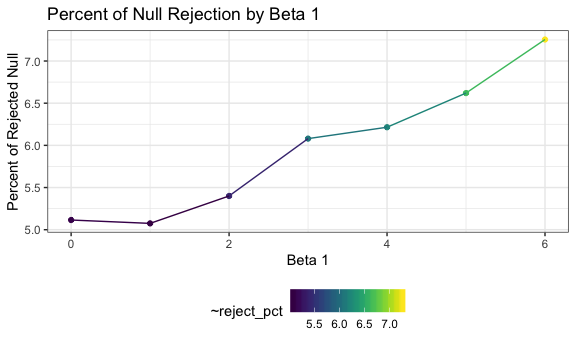
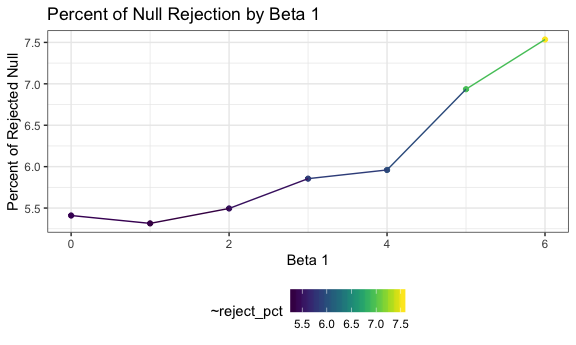
updating plot for rejecting null and average betas for problem 3

diff --git a/p8105_hw5_hmb2161.md b/p8105_hw5_hmb2161.md
@@ -286,20 +286,22 @@ prob_data = tibble(
     ## Please use `cols = c(data)`
 
 ``` r
-#tidy the resulting dataset
+#tidy the resulting dataset: pivoting longer to make each column a variable, extracting out group, recoding group variable, and selecting in the order I want 
 
 prob_data =
 pivot_longer(prob_data, 
-             week_1:week_8,                            # pivoting longer to make each column a variable
+             week_1:week_8,         
              names_to = "week",
-              values_to = "observations") %>%
-  mutate(subject = str_extract(subject, "(con|exp)_\\d{2}"), # extracting out group 
+             values_to = "observations") %>%
+  mutate(subject = str_extract(subject, "(con|exp)_\\d{2}"), 
          group = str_extract(subject, "con|exp"),
-         group = fct_recode(group, "control" = "con",               # recoding group variable
+         group = fct_recode(group, "control" = "con",    
                             "experiment" = "exp")) %>%
-  select(subject, group, week, observations)                        # selecting in the order I want  
+  select(subject, group, week, observations)       
 
-knitr::kable(prob_data)  # making a nice table
+# making a nice table
+
+knitr::kable(prob_data)  
 ```
 
 | subject | group      | week    | observations |
@@ -468,7 +470,7 @@ knitr::kable(prob_data)  # making a nice table
 # Problem 2: plot
 
 ``` r
-# creating a spaghetti plot for the dataframe created above
+# creating a spaghetti plot for the dataframe created above with week on the x axis, observations on the y axis, grouped by subject, with the color as the treatment arm
 
 plot_ppt_data = 
   ggplot(prob_data, aes(x = week, y = observations, color = group, group = subject)) +
@@ -497,12 +499,12 @@ about the same for the control group.
 # Problem 3
 
 ``` r
-set.seed(1)
+# creating an equation simulation for n = 30, beta0 = 2, and beta1 = 0
 
 sim_regression = function(n = 30, beta0 = 2, beta1 = 0) {
   sim_data = tibble(
     x = rnorm(n = 30, mean = 1, sd = 1),
-    y = beta0 + beta1 * x + rnorm(n, 0, 50)
+    y = beta0 + beta1 * x + rnorm(n, 0, 50)    
   )
   
   ls_fit = lm(y ~ x, data = sim_data) %>%
@@ -511,6 +513,8 @@ sim_regression = function(n = 30, beta0 = 2, beta1 = 0) {
 
 }
 
+# creating a dataframe with the regression simulation run 10,000 times for beta1 = {0, 1, 2, 3, 4, 5, 6} including p-values and estimated beta1 value
+
 models = 
   tibble(beta1 = 0:6) %>%
   mutate(reg_data = map(.x = beta1, ~rerun(10000, sim_regression(beta1 = .x))),
@@ -518,39 +522,25 @@ models =
   select(-reg_data) %>%
   unnest(estimate_dfs)
 
-models
+# showing an example few rows of my simulation results
+
+knitr::kable(head(models))
 ```
 
-    ## # A tibble: 140,000 x 4
-    ##    beta1 term        estimate p.value
-    ##    <int> <chr>          <dbl>   <dbl>
-    ##  1     0 (Intercept)   6.37    0.583 
-    ##  2     0 x             2.09    0.798 
-    ##  3     0 (Intercept)   7.62    0.552 
-    ##  4     0 x             0.0458  0.996 
-    ##  5     0 (Intercept)  24.1     0.0500
-    ##  6     0 x           -15.2     0.155 
-    ##  7     0 (Intercept)  -6.47    0.630 
-    ##  8     0 x            -3.21    0.718 
-    ##  9     0 (Intercept)  12.6     0.387 
-    ## 10     0 x            -3.64    0.730 
-    ## # … with 139,990 more rows
+| beta1 | term        |   estimate |   p.value |
+| ----: | :---------- | ---------: | --------: |
+|     0 | (Intercept) |  0.1603108 | 0.9923582 |
+|     0 | x           | 14.2846186 | 0.2066396 |
+|     0 | (Intercept) |  0.4134161 | 0.9701161 |
+|     0 | x           |  8.7011128 | 0.1819841 |
+|     0 | (Intercept) | 11.0021154 | 0.4109875 |
+|     0 | x           |  4.2646215 | 0.6059809 |
 
 ## Problem 3: Null Rejection by Beta1
 
 ``` r
-library(patchwork)
-library(ggridges)
-```
+# creating a dataframe grouped by beta1 and summarized by the p-value > 0.05 with a proportion of times I rejected the null
 
-    ## 
-    ## Attaching package: 'ggridges'
-
-    ## The following object is masked from 'package:ggplot2':
-    ## 
-    ##     scale_discrete_manual
-
-``` r
 models_reject = 
   models %>%
   group_by(beta1) %>%
@@ -558,6 +548,8 @@ models_reject =
   mutate(reject_pct = n/sum(n) * 100) %>%
   filter(reject == TRUE)
   
+# creating graph of when we rejected the null against the beta1 value 
+
 rejected_null = 
 ggplot(models_reject, aes(x = beta1, 
                           y = reject_pct, 
@@ -575,14 +567,20 @@ rejected_null
 
 <img src="p8105_hw5_hmb2161_files/figure-gfm/unnamed-chunk-5-1.png" width="90%" />
 As the effect size (beta1) gets larger, the percent of times the null is
-rejected increases, so the power increases.
+rejected increases, so the power
+increases.
 
 ## Problem 3: Average Beta1 vs true Beta1
 
 ``` r
+# taking the models dataset, grouping by beta1, and taking the average of the beta1
+
 models_avg = 
-  group_by(models, beta1) %>%
-  mutate(avg_beta1 = mean(beta1))
+  models %>%
+  group_by(beta1) %>%
+  summarize(avg_beta1 = mean(estimate))
+
+# graphing the average beta1 by color
 
 average_beta1 = 
   ggplot(models_avg, aes(x = beta1, y = avg_beta1, color = beta1)) +
@@ -600,25 +598,38 @@ average_beta1
 <img src="p8105_hw5_hmb2161_files/figure-gfm/unnamed-chunk-6-1.png" width="90%" />
 
 ``` r
-overlay = 
-  ggplot(models_avg, aes(x = beta1, y = avg_beta1, color = beta1)) +
-  geom_point() + 
-  geom_line() +
-    viridis::scale_color_viridis(aes(color = reject_pct), 
-                               discrete = FALSE) +
-  labs(title = "Avg Beta1 Compared to True Beta1",
-       x = "True Beta 1",
-       y = "Average Beta 1" ) +
-  ggplot(models_reject, aes(x = beta1, y = reject_pct, color = reject_pct)) +
+avg_reject = 
+  models %>%
+  filter(p.value < 0.05) %>%
+  group_by(beta1) %>%
+  summarize(avg_beta1 = mean(estimate))
+  
+avg_reject
+```
+
+    ## # A tibble: 7 x 2
+    ##   beta1 avg_beta1
+    ##   <int>     <dbl>
+    ## 1     0      5.41
+    ## 2     1      7.11
+    ## 3     2      9.45
+    ## 4     3     11.9 
+    ## 5     4     14.5 
+    ## 6     5     15.5 
+    ## 7     6     16.6
+
+``` r
+plot_two = 
+  ggplot(avg_reject, aes(x = beta1, y = avg_beta1, color = avg_beta1)) +
   geom_point() +
   geom_line() +
   viridis::scale_color_viridis(aes(color = reject_pct), 
                                discrete = FALSE) +
-  labs(title = "Percent of Null Rejection by Beta 1",
-       x = "Beta 1",
-       y = "Percent of Rejected Null" )
+  labs(title = "Avg Beta1 Compared to True Beta1 Among Rejected P.Values",
+       x = "True Beta 1",
+       y = "Average Beta 1" )
 
-overlay
+plot_two
 ```
 
 <img src="p8105_hw5_hmb2161_files/figure-gfm/unnamed-chunk-6-2.png" width="90%" />
